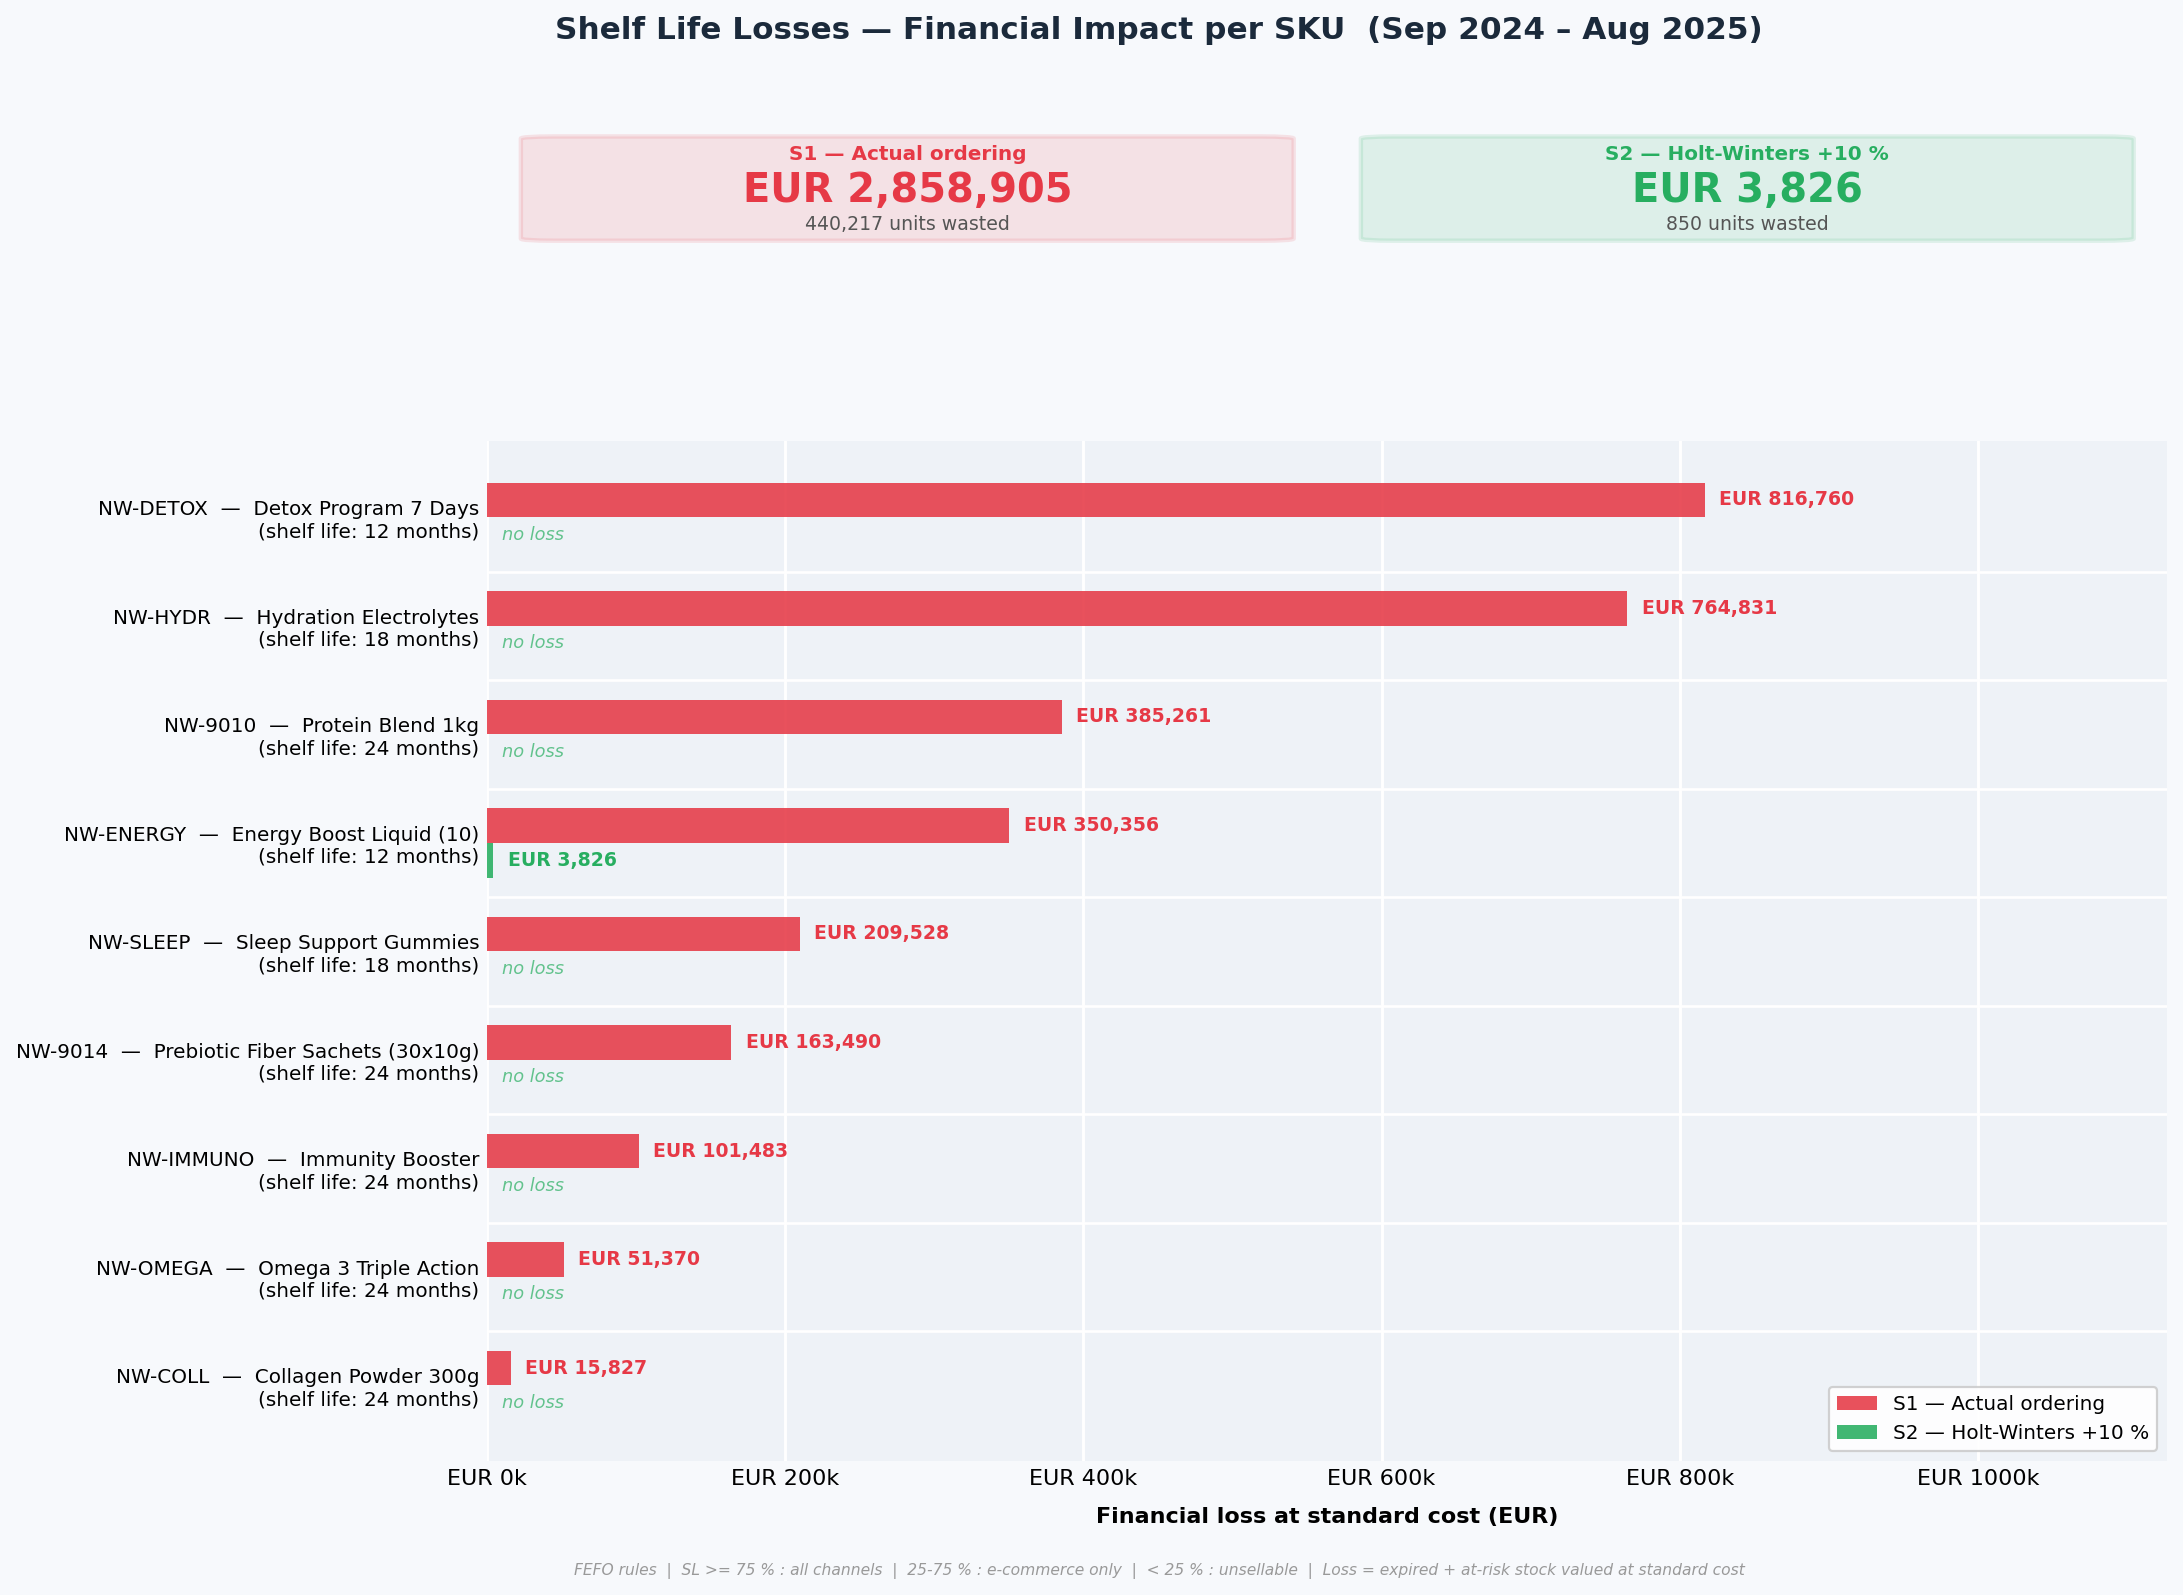
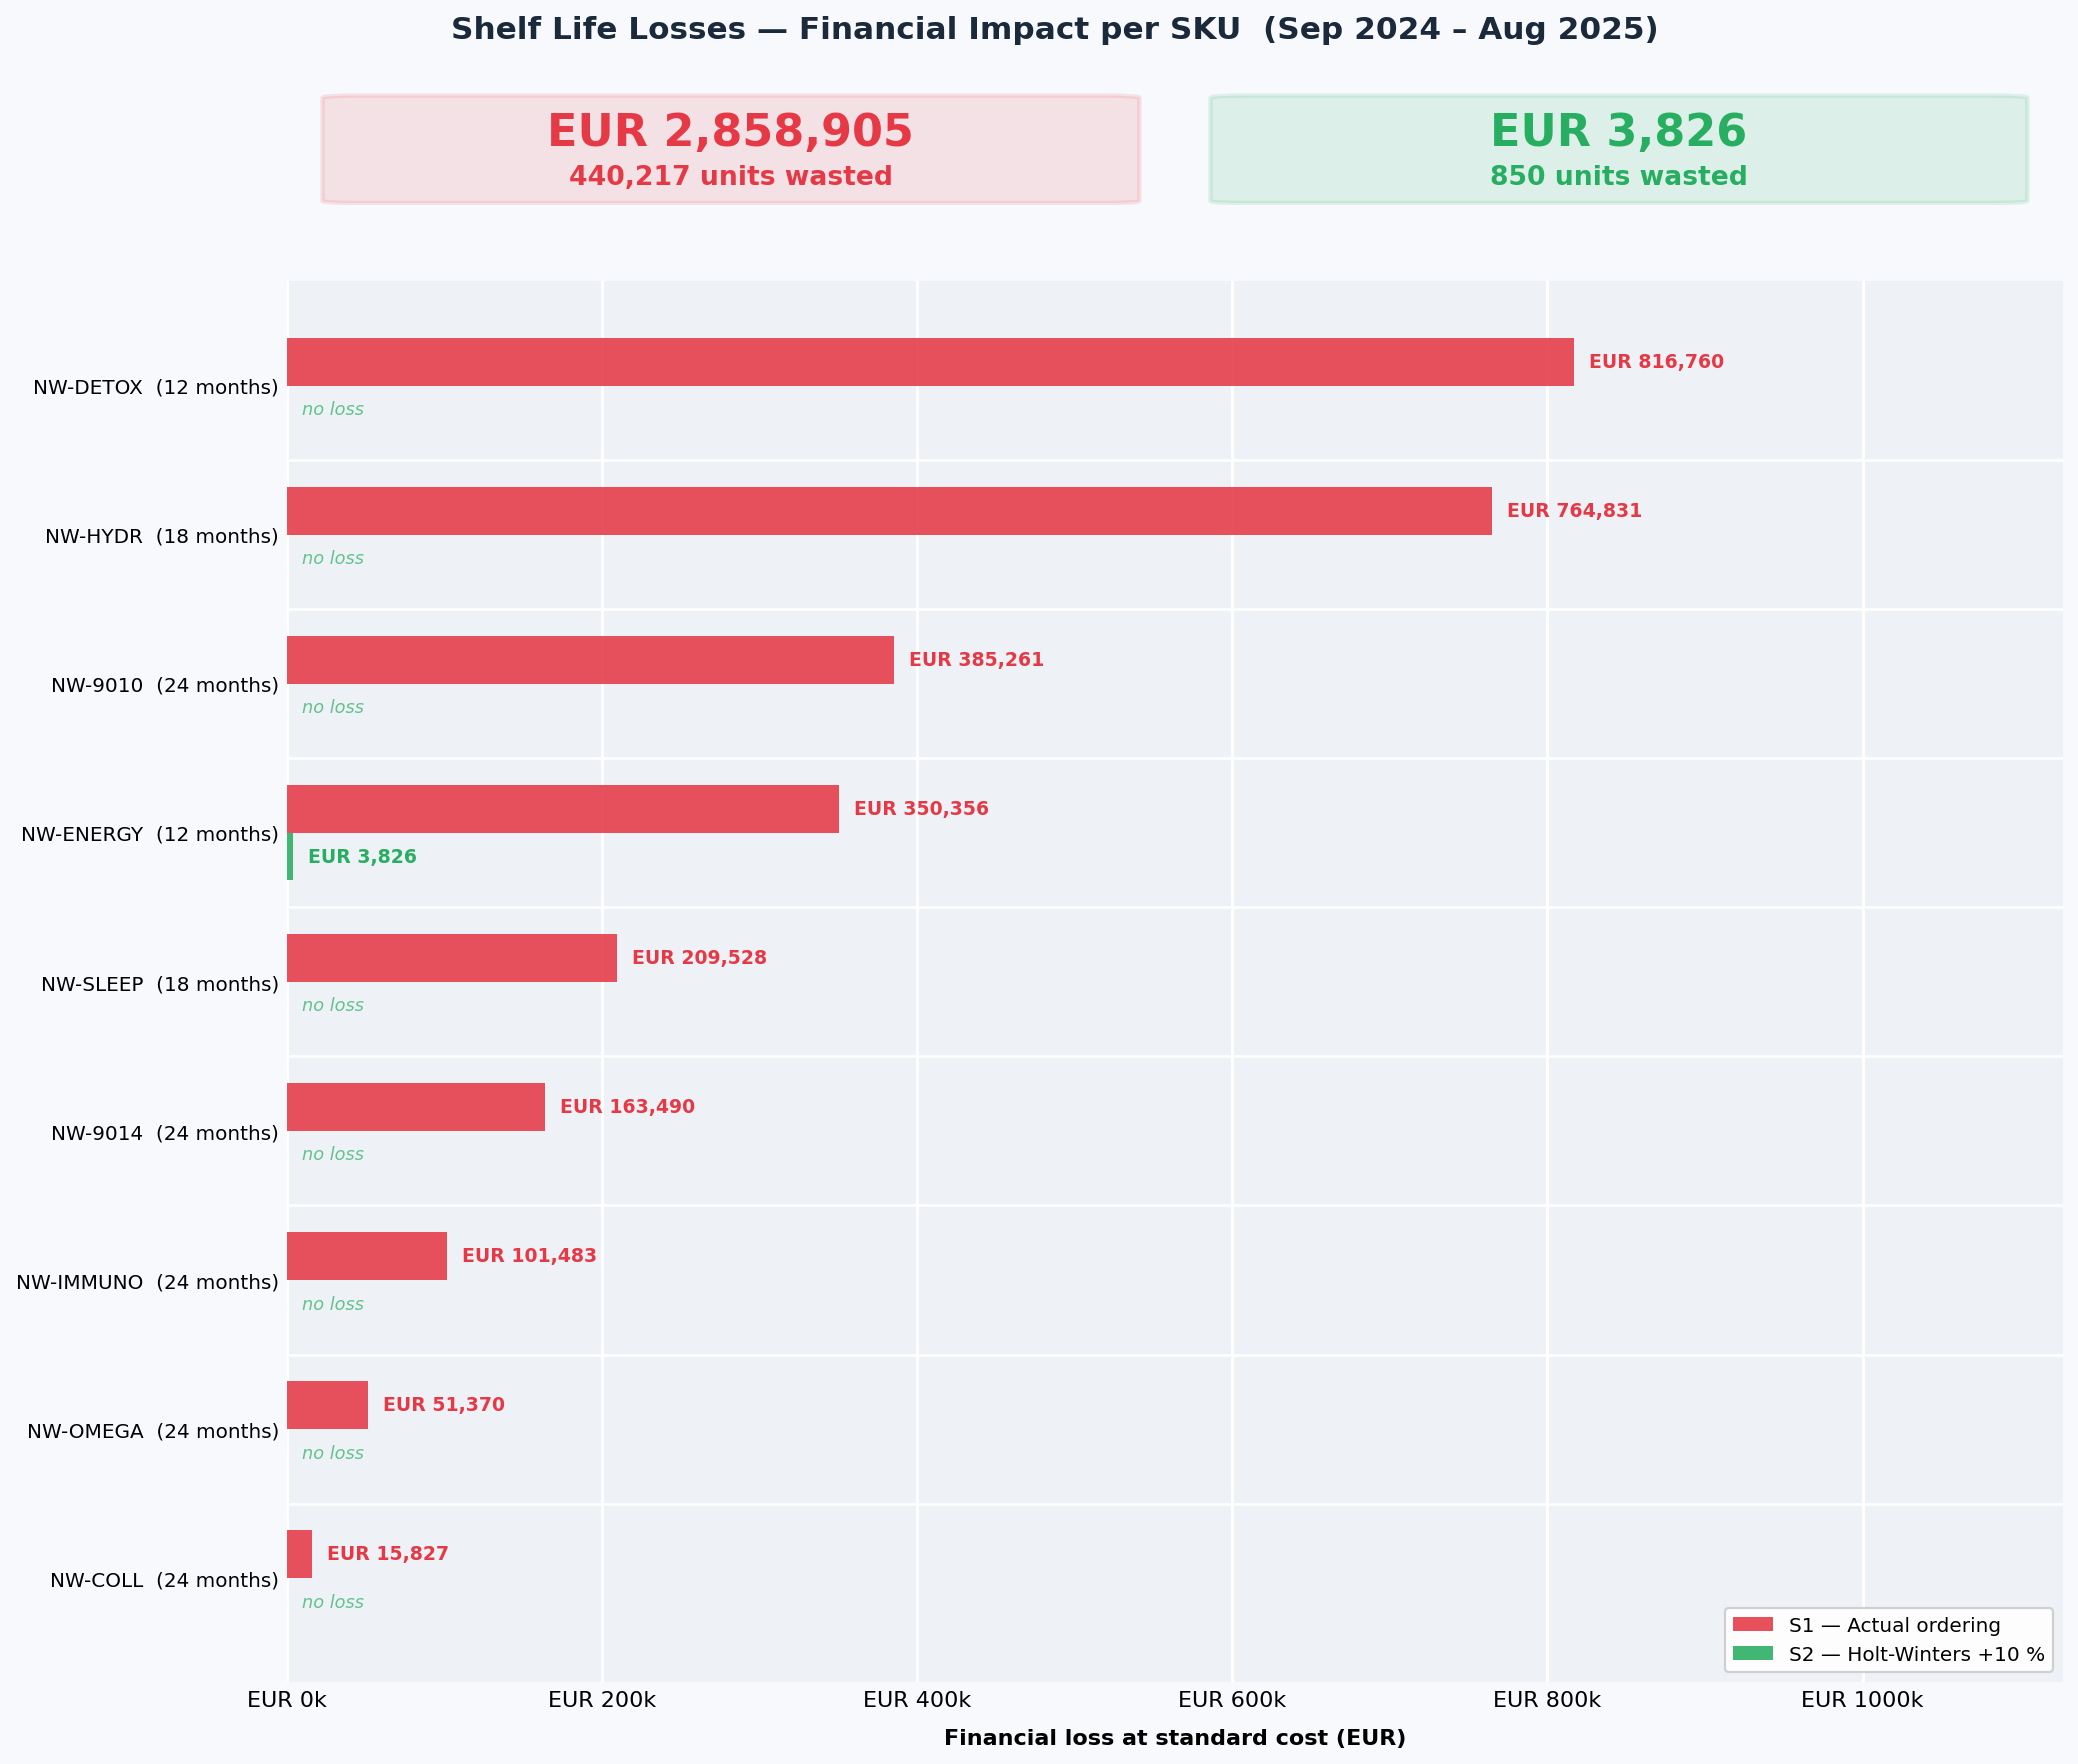
Added more clarity to the shelf life losses graph

diff --git a/Info_W1/Analysis 1/Profitability/Overstock/shelf_life_losses.py b/Info_W1/Analysis 1/Profitability/Overstock/shelf_life_losses.py
@@ -389,14 +389,14 @@ def main():
     y  = np.arange(n)
     bh = 0.32   # bar height
 
-    fig = plt.figure(figsize=(15, 2.5 + n * 0.85))
+    fig = plt.figure(figsize=(15, 2.0 + n * 1.05))
     fig.patch.set_facecolor(BG)
 
     gs = GridSpec(2, 1, figure=fig,
-                  height_ratios=[1, n],
-                  hspace=0.35,
-                  left=0.22, right=0.92,
-                  top=0.90, bottom=0.08)
+                  height_ratios=[0.75, n],
+                  hspace=0.10,
+                  left=0.18, right=0.92,
+                  top=0.93, bottom=0.06)
 
     ax_kpi  = fig.add_subplot(gs[0])
     ax_main = fig.add_subplot(gs[1])
@@ -412,12 +412,10 @@ def main():
     )
 
     kpis = [
-        (0.04, C_S1, "S1 — Actual ordering",
-         f"EUR {t_s1_e:,.0f}", f"{t_s1_u:,.0f} units wasted"),
-        (0.54, C_S2, "S2 — Holt-Winters +10 %",
-         f"EUR {t_s2_e:,.0f}", f"{t_s2_u:,.0f} units wasted"),
+        (0.04, C_S1, f"EUR {t_s1_e:,.0f}", f"{t_s1_u:,.0f} units wasted"),
+        (0.54, C_S2, f"EUR {t_s2_e:,.0f}", f"{t_s2_u:,.0f} units wasted"),
     ]
-    for bx, color, label, big, sub in kpis:
+    for bx, color, big, sub in kpis:
         card = mpatches.FancyBboxPatch(
             (bx, 0.04), 0.42, 0.88,
             boxstyle="round,pad=0.02",
@@ -427,14 +425,11 @@ def main():
         )
         ax_kpi.add_patch(card)
         cx = bx + 0.21
-        ax_kpi.text(cx, 0.78, label, ha="center", va="center",
-                    fontsize=9, fontweight="bold", color=color,
+        ax_kpi.text(cx, 0.62, big, ha="center", va="center",
+                    fontsize=20, fontweight="bold", color=color,
                     transform=ax_kpi.transAxes)
-        ax_kpi.text(cx, 0.46, big, ha="center", va="center",
-                    fontsize=18, fontweight="bold", color=color,
-                    transform=ax_kpi.transAxes)
-        ax_kpi.text(cx, 0.16, sub, ha="center", va="center",
-                    fontsize=8.5, color="#555555",
+        ax_kpi.text(cx, 0.24, sub, ha="center", va="center",
+                    fontsize=12, fontweight="bold", color=color,
                     transform=ax_kpi.transAxes)
 
     savings = t_s1_e - t_s2_e
@@ -480,9 +475,9 @@ def main():
                          va="center", ha="left", fontsize=8,
                          color=C_S2, style="italic", alpha=0.7)
 
-    # Y-axis labels: SKU + product name + shelf life
+    # Y-axis labels: SKU code + shelf life in months
     ylabels = [
-        f"{row['SKU']}  —  {row['Name']}\n(shelf life: {int(row['SL_months'])} months)"
+        f"{row['SKU']}  ({int(row['SL_months'])} months)"
         for _, row in df_loss.iterrows()
     ]
     ax_main.set_yticks(y)
@@ -499,14 +494,6 @@ def main():
     # Divider between each SKU pair
     for i in range(n - 1):
         ax_main.axhline(i + 0.5, color="white", lw=1.2, zorder=1)
-
-    fig.text(
-        0.5, 0.01,
-        "FEFO rules  |  SL >= 75 % : all channels  |  "
-        "25-75 % : e-commerce only  |  < 25 % : unsellable  |  "
-        "Loss = expired + at-risk stock valued at standard cost",
-        ha="center", fontsize=7, color="#999999", style="italic",
-    )
 
     png_path = OUT_DIR / "shelf_life_losses.png"
     fig.savefig(png_path, dpi=160, bbox_inches="tight", facecolor=BG)
